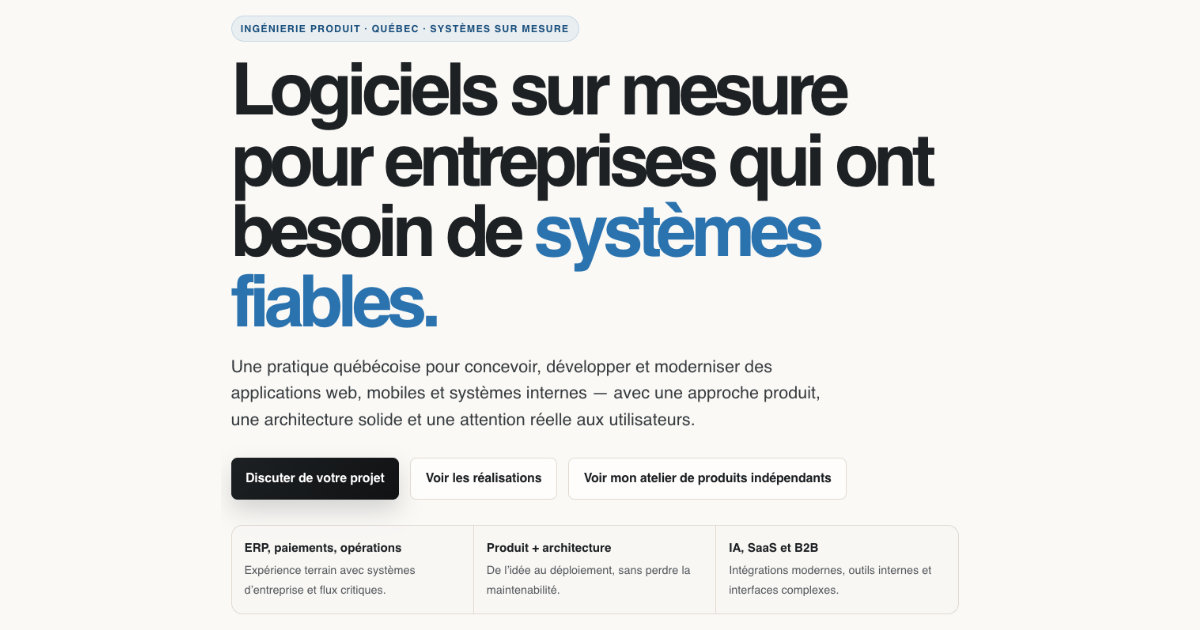
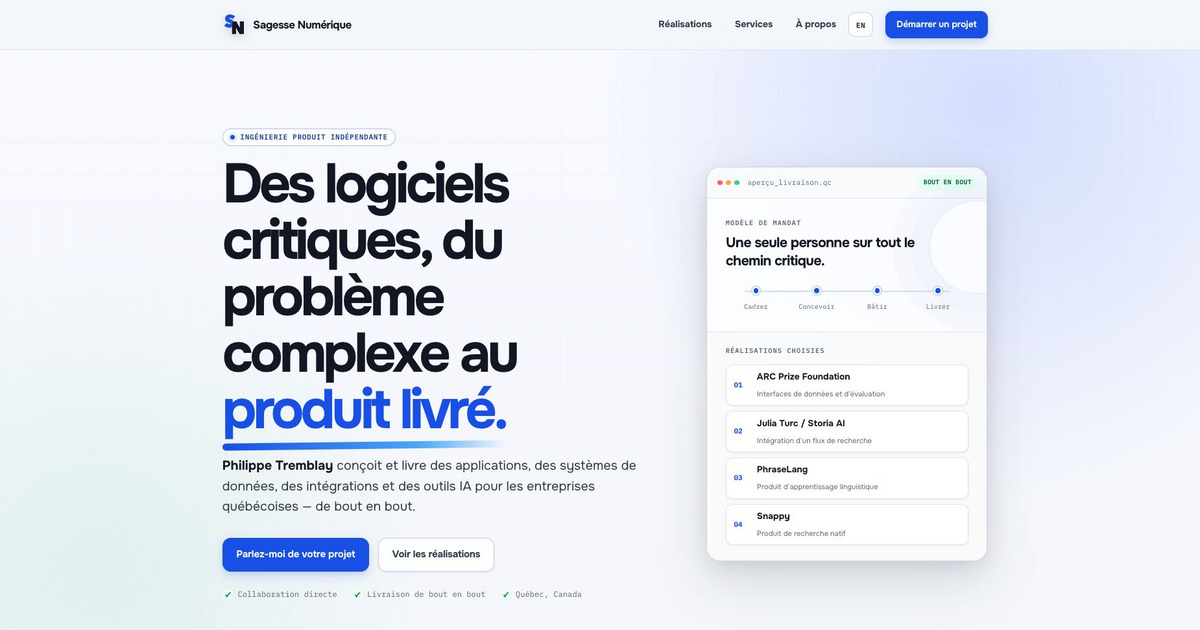
Update portfolio showcase and social preview

diff --git a/index.html b/index.html
@@ -51,7 +51,7 @@
       href="https://fonts.googleapis.com/css2?family=IBM+Plex+Mono:wght@400;500;600;700&amp;family=Onest:wght@400;500;600;700;800&amp;display=swap"
       rel="stylesheet"
     >
-    <link rel="stylesheet" href="./assets/site.css?v=20260804b">
+    <link rel="stylesheet" href="./assets/site.css?v=20260804c">
 
     <script type="application/ld+json">
       {
@@ -203,6 +203,7 @@
                 <li><b>01</b><strong>ARC Prize Foundation</strong><span>Interfaces de données et d’évaluation</span></li>
                 <li><b>02</b><strong>Julia Turc / Storia AI</strong><span>Intégration d’un flux de recherche</span></li>
                 <li><b>03</b><strong>PhraseLang</strong><span>Produit d’apprentissage linguistique</span></li>
+                <li><b>04</b><strong>Snappy</strong><span>Produit de recherche natif</span></li>
               </ul>
             </div>
           </aside>

diff --git a/en/index.html b/en/index.html
@@ -51,7 +51,7 @@
       href="https://fonts.googleapis.com/css2?family=IBM+Plex+Mono:wght@400;500;600;700&amp;family=Onest:wght@400;500;600;700;800&amp;display=swap"
       rel="stylesheet"
     >
-    <link rel="stylesheet" href="../assets/site.css?v=20260804b">
+    <link rel="stylesheet" href="../assets/site.css?v=20260804c">
 
     <script type="application/ld+json">
       {
@@ -203,6 +203,7 @@
                 <li><b>01</b><strong>ARC Prize Foundation</strong><span>Benchmark &amp; data interfaces</span></li>
                 <li><b>02</b><strong>Julia Turc / Storia AI</strong><span>Research workflow integration</span></li>
                 <li><b>03</b><strong>PhraseLang</strong><span>Language-learning product</span></li>
+                <li><b>04</b><strong>Snappy</strong><span>Native search product</span></li>
               </ul>
             </div>
           </aside>

diff --git a/assets/site.css b/assets/site.css
@@ -506,19 +506,6 @@ h3 {
   content: "";
 }
 
-.hero::after {
-  position: absolute;
-  top: 2.5rem;
-  right: max(var(--gutter), calc((100vw - var(--container)) / 2));
-  color: rgba(24, 73, 169, 0.34);
-  font-family: var(--font-mono);
-  font-size: 0.67rem;
-  letter-spacing: 0.16em;
-  text-transform: uppercase;
-  content: "QC—CA / SYSTÈMES SUR MESURE";
-  writing-mode: vertical-rl;
-}
-
 .hero-grid {
   position: relative;
   z-index: 1;
@@ -1921,10 +1908,6 @@ h3 {
 
   .brand-name {
     font-size: 0.92rem;
-  }
-
-  .hero::after {
-    display: none;
   }
 
   .hero-actions {
